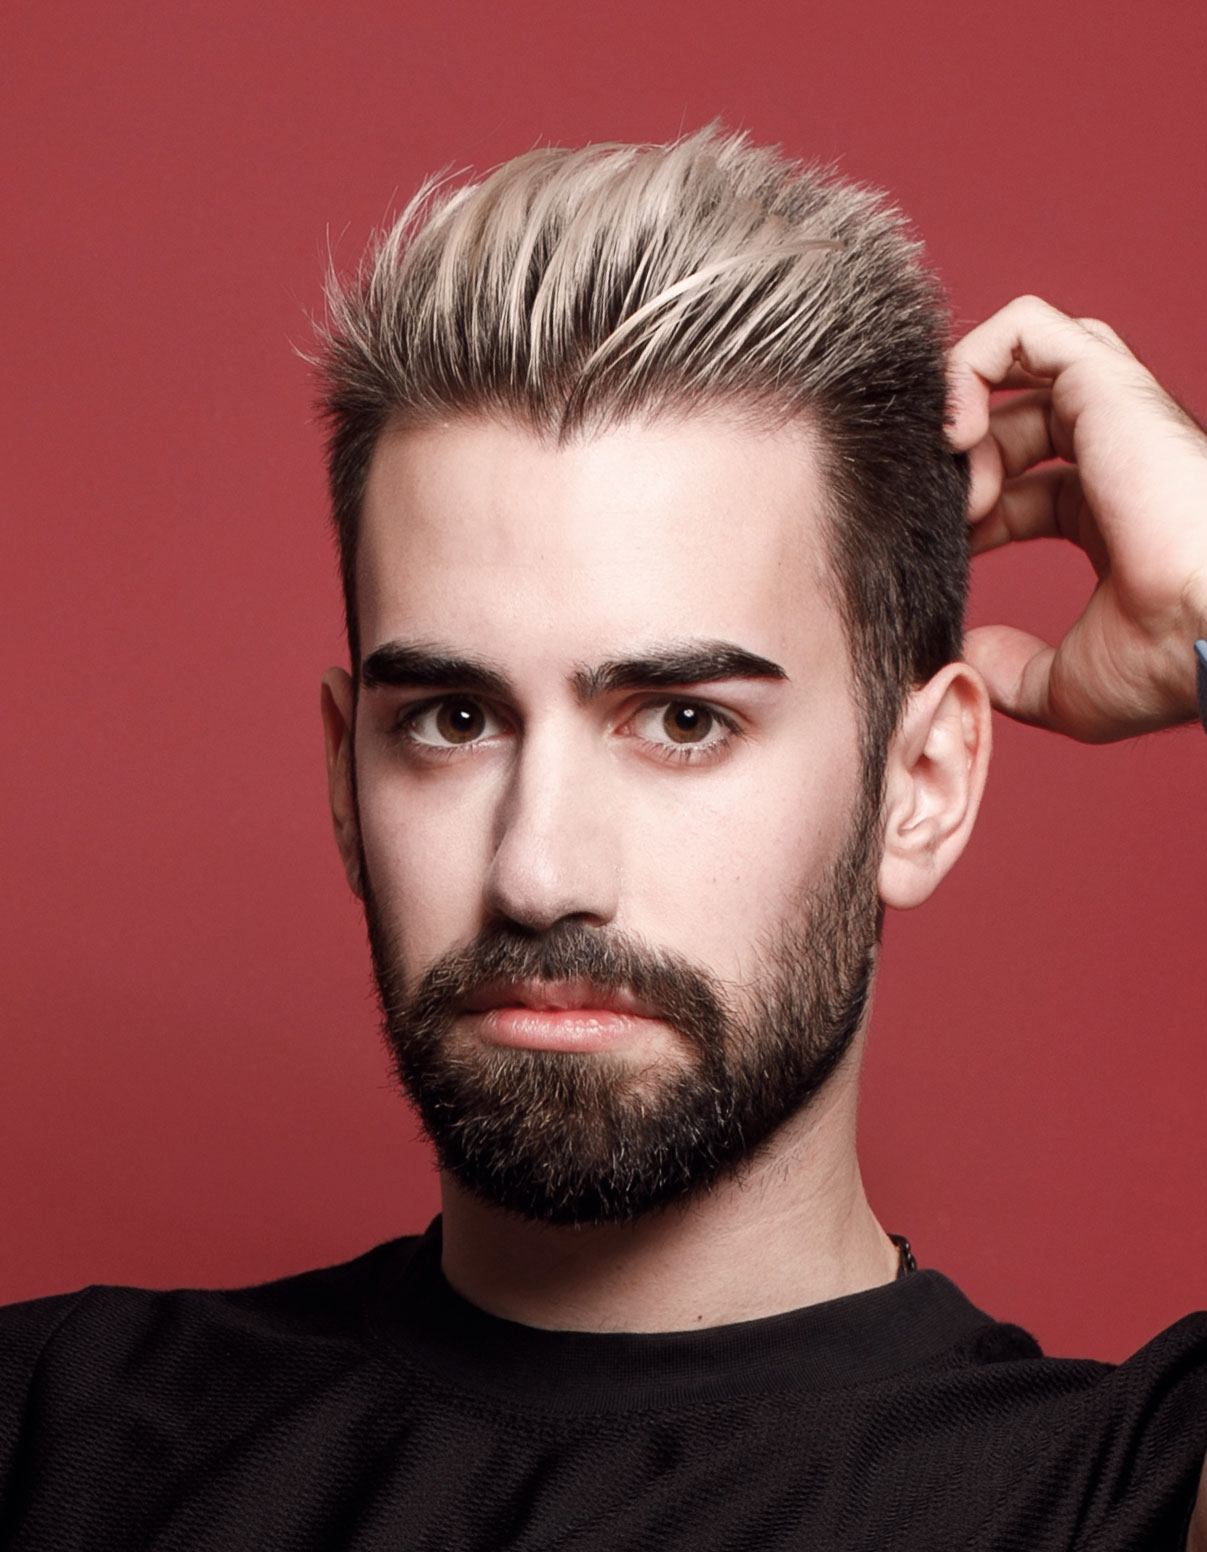
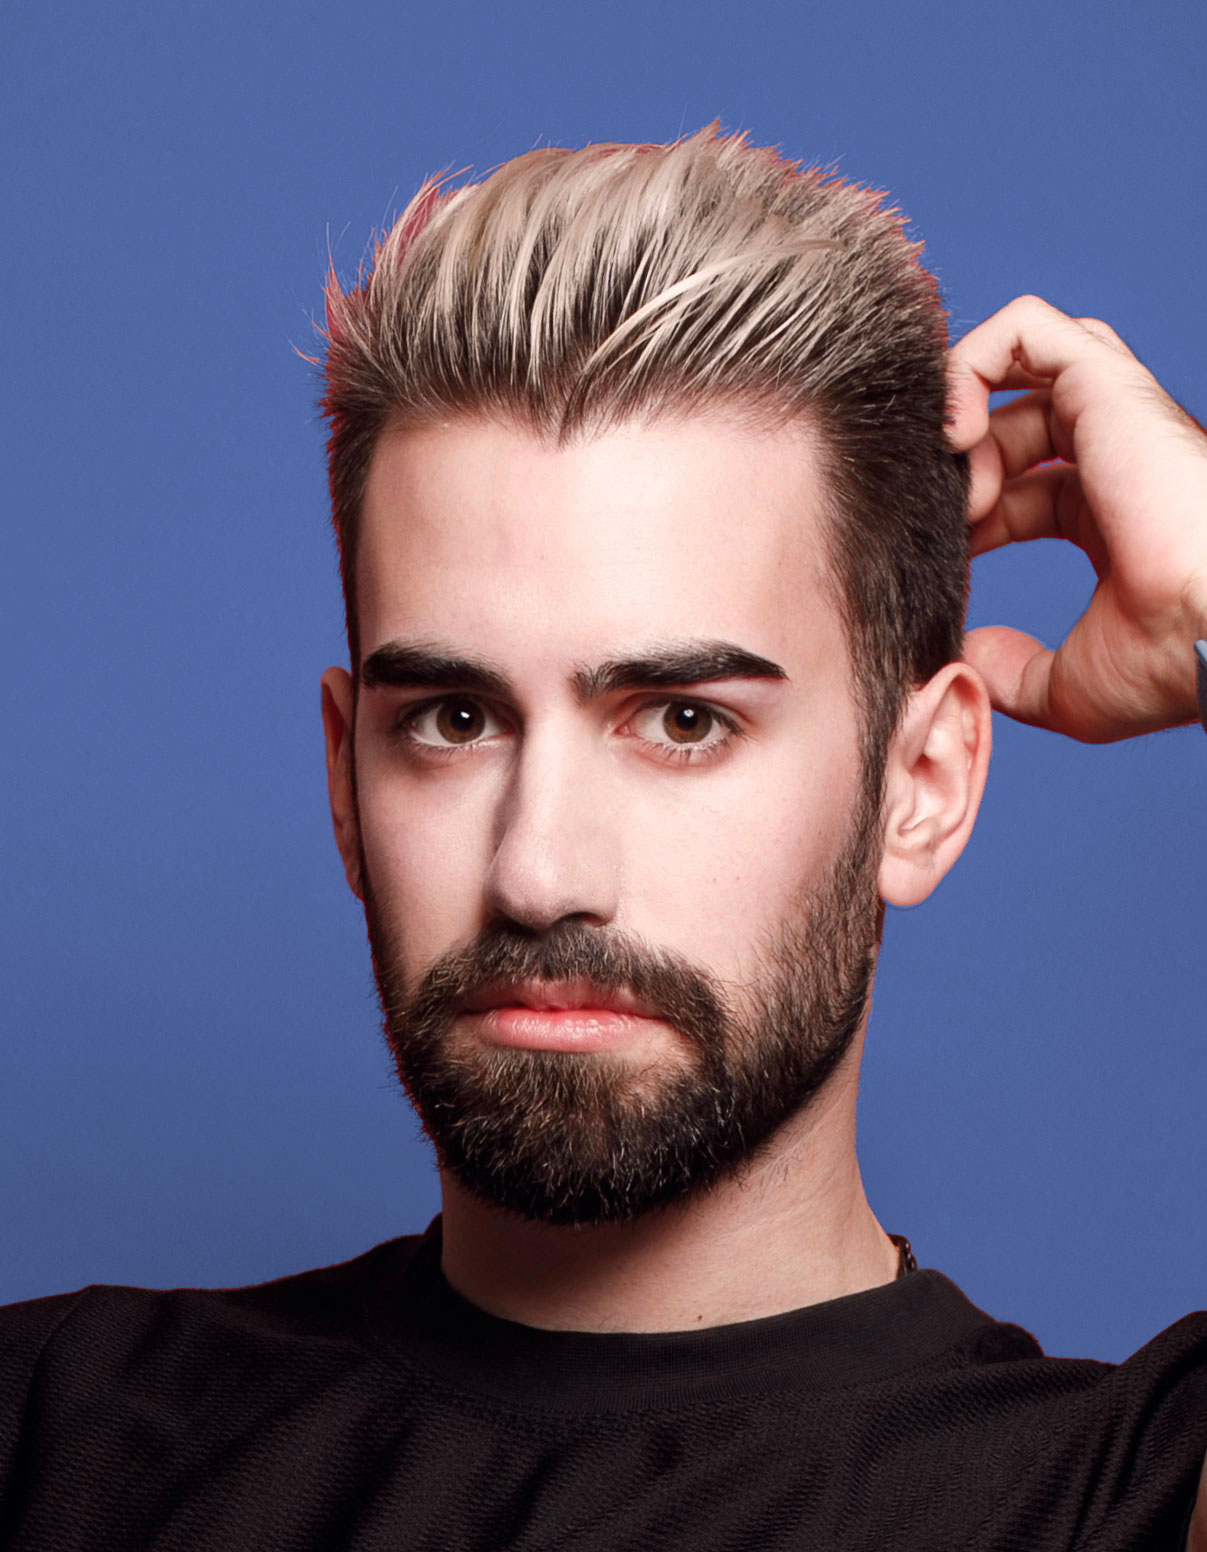
Changed picture bg color; Added social tags

diff --git a/index.html b/index.html
@@ -10,14 +10,22 @@
     <header class="header">
       <h1 class="uppercase">Pedro <strong>Lima e Silva</strong></h1>
       <h3 class="uppercase">Frontend Developer</h3>
+      <ul class="social">
+        <li class="social__link" aria="linkedin">
+          <img class="social__icon" src="./img/linkedin.svg" alt="" /> pedrolimaesilva
+        </li>
+        <li class="social__link" aria="github">
+          <img class="social__icon" src="./img/github.svg" alt="" /> PedroLimaSilva
+        </li>
+      </ul>
     </header>
     <main class="main container">
-      <q class="quote"
-        >Sinto que ainda tenho muito para aprender e mais para dar na minha
-        área, não só no desenvolvimento web, mas também na visualização de dados
-        e construção de interfaces num mundo em que as capacidades dos aparelhos
-        que usamos continuam a crescer a uma velocidade vertiginosa.</q
-      >
+      <blockquote class="quote">
+        Sinto que ainda tenho muito para aprender e mais para dar na minha área,
+        não só no desenvolvimento web, mas também na visualização de dados e
+        construção de interfaces num mundo em que as capacidades dos aparelhos
+        que usamos continuam a crescer a uma velocidade vertiginosa.
+      </blockquote>
       <section>
         <h3 class="uppercase">Experiência Profissional</h3>
         <article class="experience-item">

diff --git a/css/index.css b/css/index.css
@@ -37,7 +37,7 @@ li {
   text-transform: uppercase; }
 
 .container {
-  padding: 2.5em 2em; }
+  padding: 2em 2em; }
 
 .corner {
   display: block;
@@ -66,6 +66,7 @@ li {
     box-shadow: 0 -3px 5px 2px rgba(0, 0, 0, 0.2); }
 
 .quote {
+  margin: 0;
   margin-bottom: 1.5em;
   display: block;
   padding-left: 1.5em;
@@ -81,6 +82,21 @@ li {
     border-radius: 3px;
     background-color: darkcyan; }
 
+.social {
+  display: flex;
+  align-items: center;
+  width: 50vw;
+  justify-content: space-around;
+  margin-top: 3em; }
+  .social__link {
+    display: flex;
+    align-items: center; }
+  .social__icon {
+    width: 30px;
+    height: 30px;
+    display: inline-block;
+    margin-right: 0.5em; }
+
 .body-grid {
   display: grid;
   grid-template-columns: 2fr 3fr;
@@ -88,7 +104,7 @@ li {
   grid-template-areas: 'header header' 'aside main'; }
   .body-grid .header {
     grid-area: header;
-    background-color: #384e77;
+    background-color: #46598e;
     color: #e0fbfc;
     display: flex;
     align-items: center;

diff --git a/scss/components/social.scss b/scss/components/social.scss
@@ -1,0 +1,17 @@
+.social {
+  display: flex;
+  align-items: center;
+  width: 50vw;
+  justify-content: space-around;
+  margin-top: 3em;
+  &__link {
+    display: flex;
+    align-items: center;
+  }
+  &__icon {
+    width: 30px;
+    height: 30px;
+    display: inline-block;
+    margin-right: 0.5em;
+  }
+}

diff --git a/scss/base/variables.scss b/scss/base/variables.scss
@@ -5,7 +5,7 @@
 $color1: rgba(48, 48, 48, 1);
 $color2: rgba(0, 129, 183, 1);
 $color3: rgba(123, 40, 125, 1);
-$color4: rgba(56, 78, 119, 1);
+$color4: #46598e;
 $color5: rgba(224, 251, 252, 1);
 
 $primary-color: $color4 !default;

diff --git a/scss/components/index.scss b/scss/components/index.scss
@@ -1,3 +1,4 @@
 @import './container.scss';
 @import './corner.scss';
 @import './quote.scss';
+@import './social.scss';

diff --git a/scss/components/quote.scss b/scss/components/quote.scss
@@ -1,4 +1,5 @@
 .quote {
+  margin: 0;
   margin-bottom: 1.5em;
   display: block;
   padding-left: 1.5em;

diff --git a/scss/components/container.scss b/scss/components/container.scss
@@ -1,3 +1,3 @@
 .container {
-  padding: 2.5em 2em;
+  padding: 2em 2em;
 }
